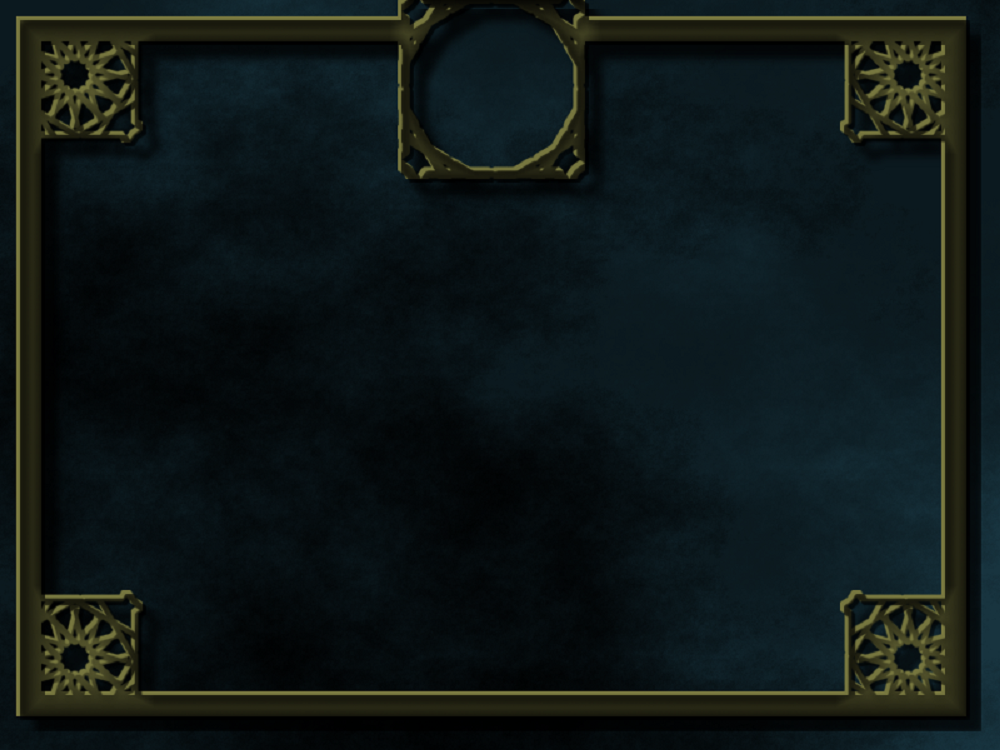
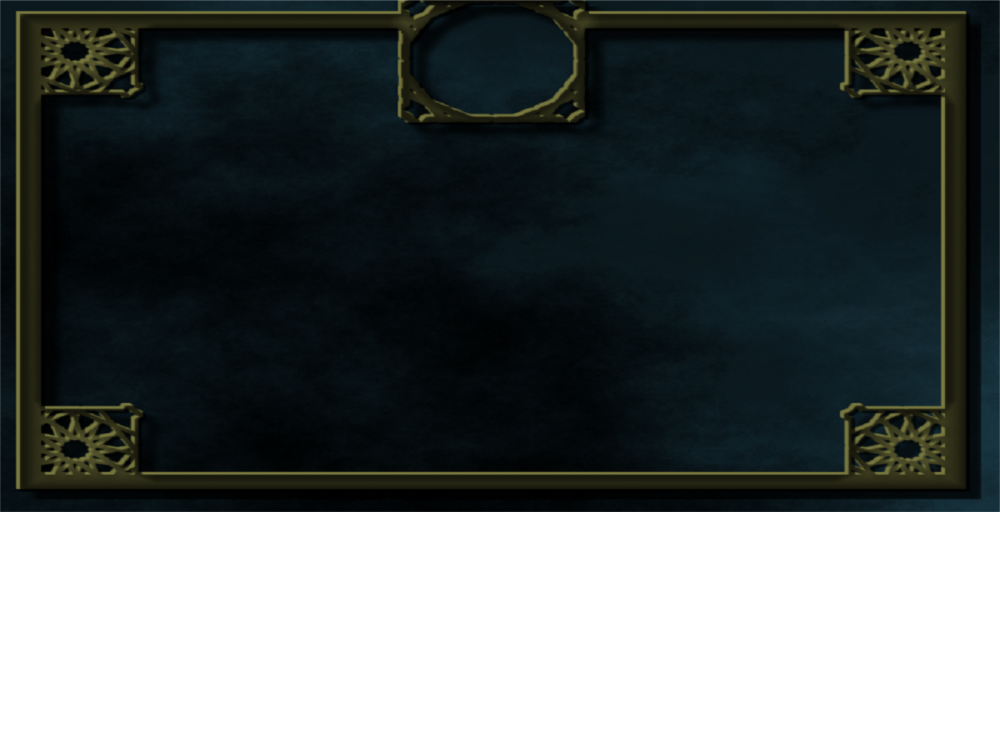
resized startscreen

diff --git a/Slick2D/src/game/character/Player.java b/Slick2D/src/game/character/Player.java
@@ -37,7 +37,7 @@ public class Player extends Character {
 		double jumpSpeed = 2;
 		thisJumpHeight++;		
 		// fix this  when actual collision works
-		if(y <= 350){
+		if(y <= 430){
 			y = (float) y -  (float)(jumpSpeed * (.35 - thisJumpHeight / 60) * delta);
 		}else{
 			thisJumpHeight = 0;
@@ -81,7 +81,7 @@ public class Player extends Character {
 					}
 						
 					// hit top collision
-					}else if((int)(y) <= tileBottomY + 3 && (int)(y) >= tileBottomY + 3){
+					}else if((int)(y) <= tileBottomY && (int)(y) >= tileTopY){
 						if(((int)(x) + width) <= tileRightX && ((int)(x) + width) >= tileLeftX){
 							hitAbove = true;
 							System.out.println("gat ya right above");
@@ -90,7 +90,7 @@ public class Player extends Character {
 							hitAbove = true;
 							System.out.println("gat ya left above");
 						}
-						System.out.println("thishappened atleast");
+					// System.out.println("thishappened atleast");
 					}
 					
 										

diff --git a/Slick2D/src/startscreen/StartScreen.java b/Slick2D/src/startscreen/StartScreen.java
@@ -17,7 +17,7 @@ public class StartScreen extends BasicGameState implements KeyListener{
 	private Image frame; 
 	private Image pointer; 
 	private int menuX = 422;
-	private int menuY = 250;
+	private int menuY = 210;
 	private int menuSpacing = 75;
 	private String optionOne =  "Enter ->   Start Game";
 	private String optionTwo =  "Tab ->  What shld this do?";
@@ -25,7 +25,7 @@ public class StartScreen extends BasicGameState implements KeyListener{
 	
 	// change this so it fits level size
 	public StartScreen(String Name){
-		System.out.println(Name);
+		// System.out.println(Name);
 	}
 	@Override
 	public void render(GameContainer gc, StateBasedGame arg1, Graphics g)

diff --git a/Slick2D/src/map/Map.java b/Slick2D/src/map/Map.java
@@ -56,6 +56,7 @@ public class Map extends BasicGameState {
     }
     
     public void loadTiledMap(){
+    	System.out.println(map.getWidth() + "  " + map.getHeight());
     	tileArray = new Tile[map.getWidth()][map.getHeight()];  
     	// gets index layer of the collision layer made in Tiled.
     	int layerIndex = map.getLayerIndex("CollisionLayer");
@@ -71,7 +72,7 @@ public class Map extends BasicGameState {
     					tile = new AirTile(x, y);
     			}
     			tileArray[x][y] = tile;
-    			System.out.println(map.getTileProperty(tileID, "tileType", "EMPTY"));
+    			// System.out.println(map.getTileProperty(tileID, "tileType", "EMPTY"));
     		}
     	}
     }

diff --git a/Slick2D/src/slickgame/SlickGame.java b/Slick2D/src/slickgame/SlickGame.java
@@ -21,7 +21,7 @@ public class SlickGame extends StateBasedGame {
 		AppGameContainer gameFrame = new AppGameContainer(Game);
 		// startScreen.setTargetFrameRate(60);
 		gameFrame.setTargetFrameRate(60);
-		gameFrame.setDisplayMode(1000, 750, false);		
+		gameFrame.setDisplayMode(1000, 512, false);		
 		gameFrame.start();			
 	}
 	
